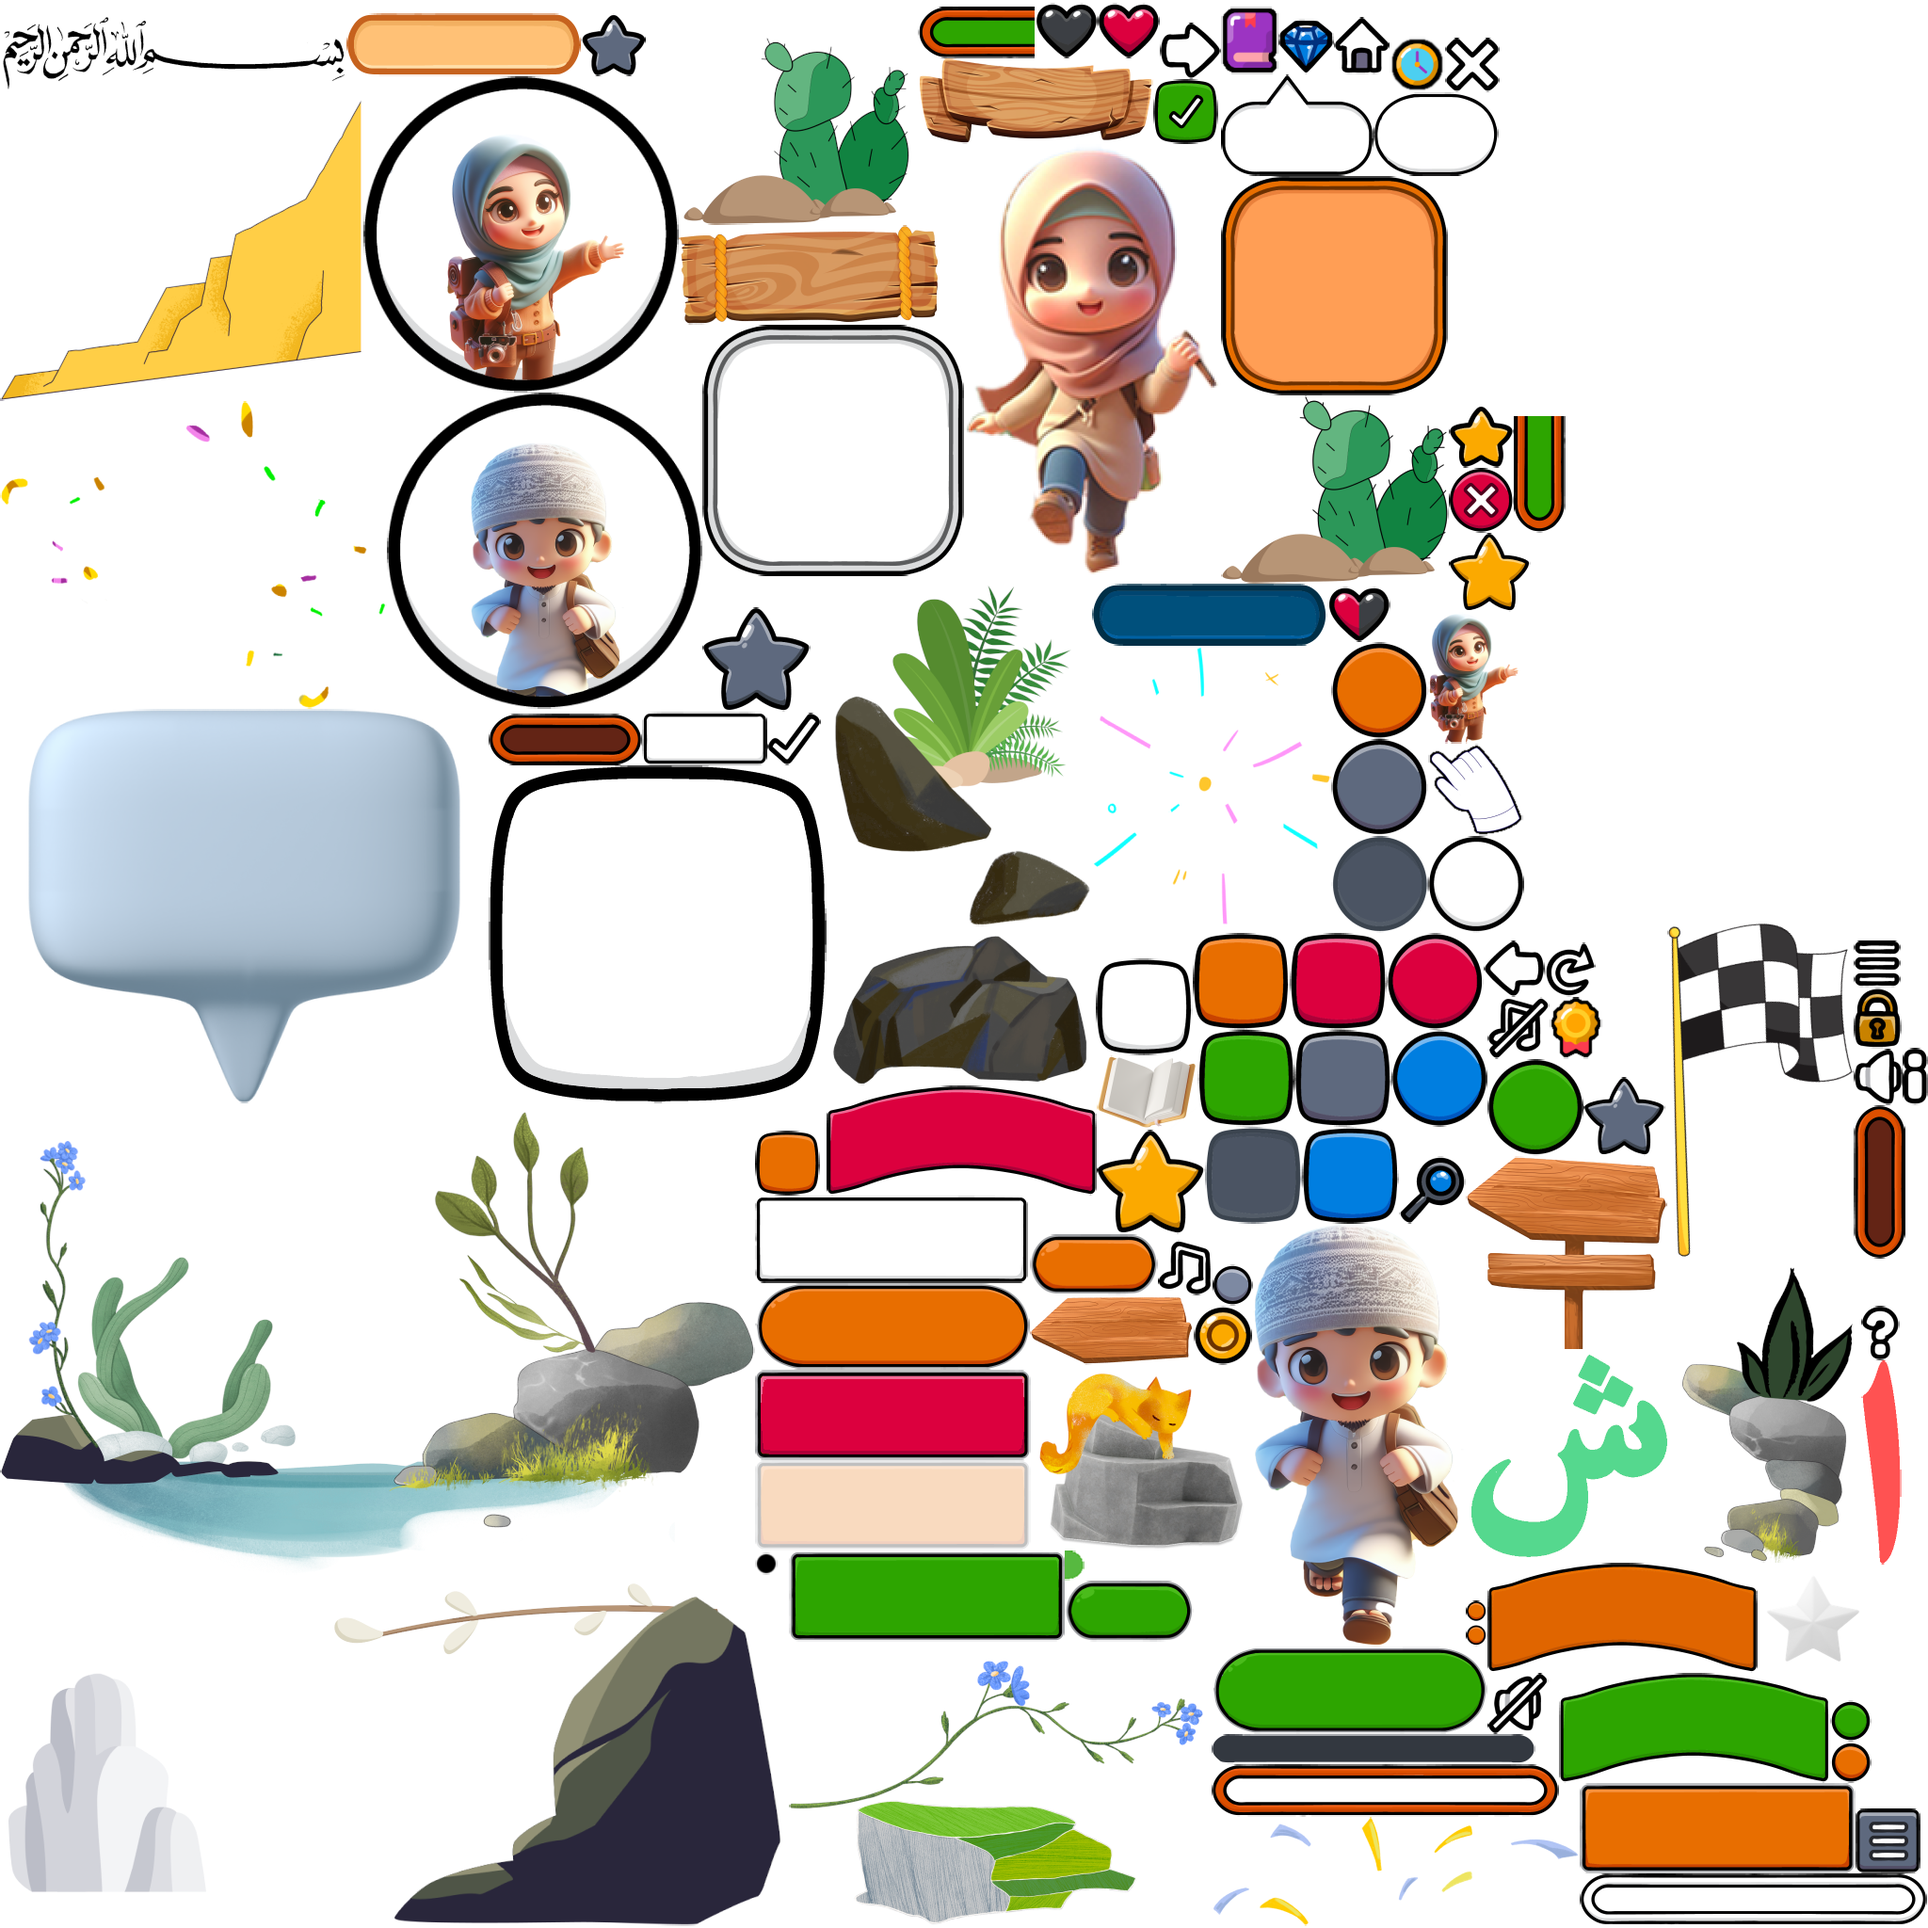
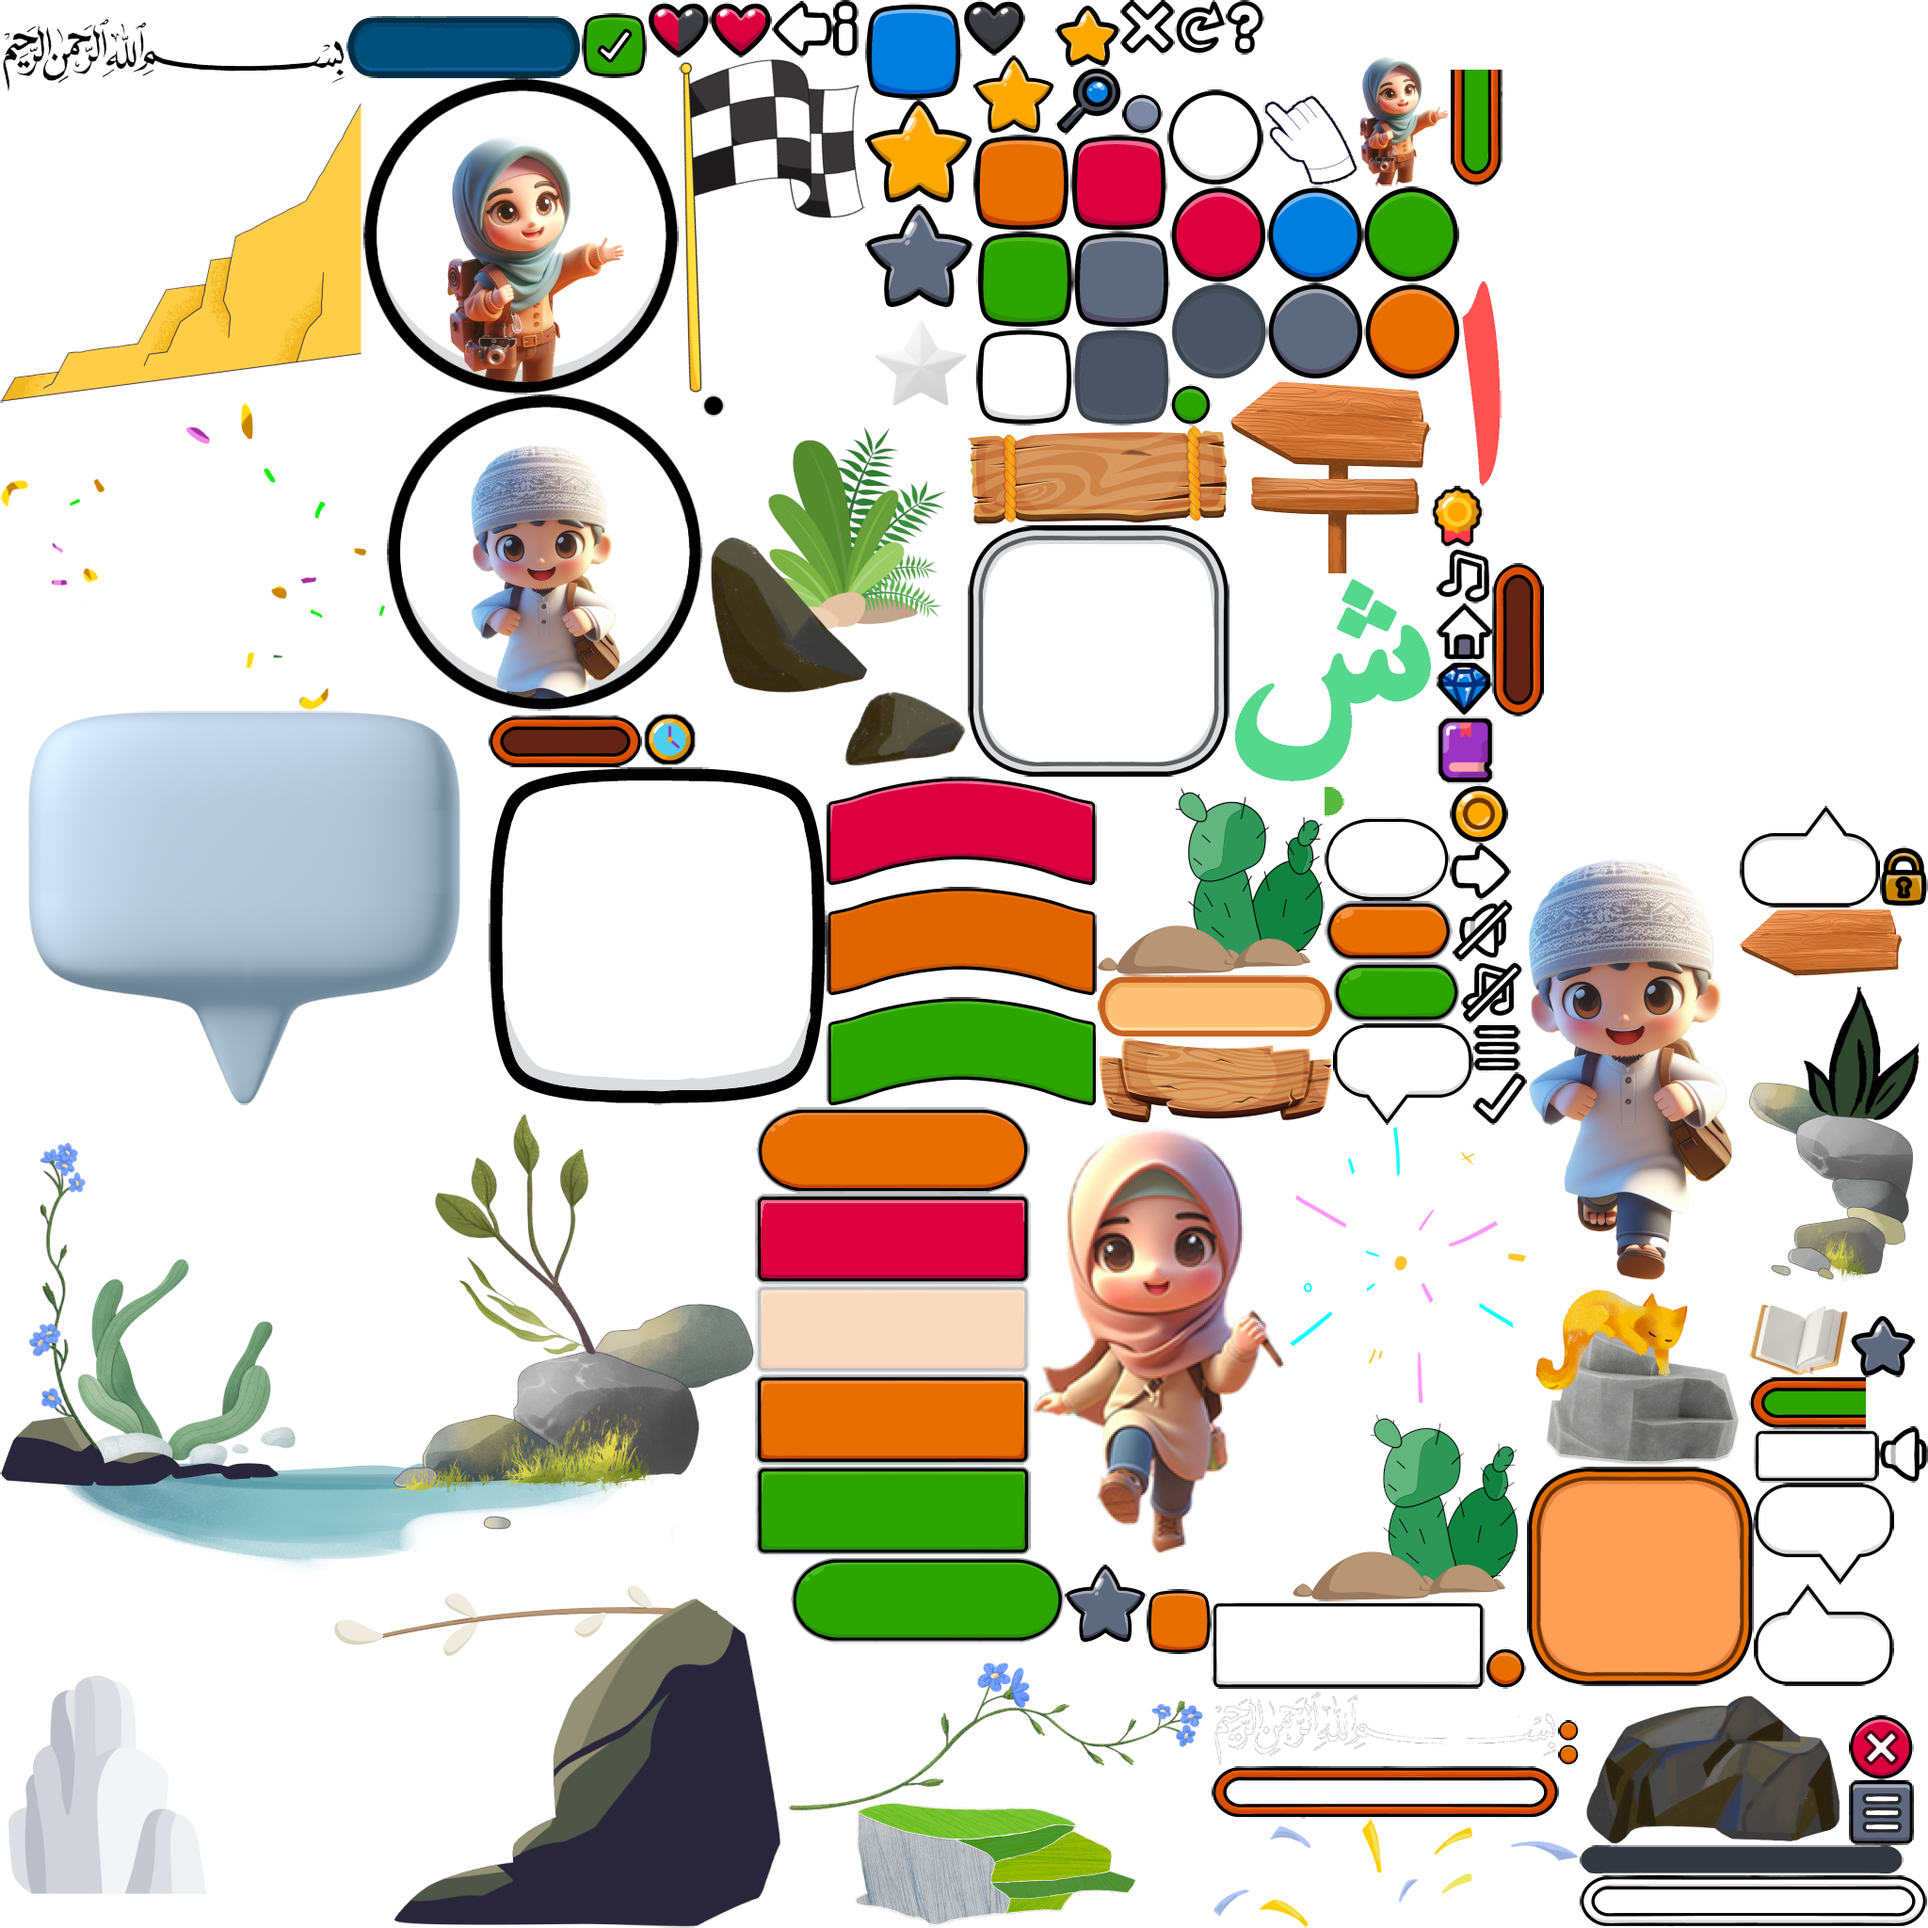
update assets

diff --git a/core/src/main/kotlin/com/github/doandadr/petualanganhijaiyah/asset/skin.kt b/core/src/main/kotlin/com/github/doandadr/petualanganhijaiyah/asset/skin.kt
@@ -47,11 +47,16 @@ enum class ImageButtons(val style: String) {
 }
 
 enum class ImageTextButtons(val style: String) {
-    LEVEL_FINISH_SCORE("level-finish-score"),
     SKIP("skip"),
 }
 
 enum class Labels(val style: String) {
+    ARABIC("arabic"),
+    BANNER_GREEN("banner-green"),
+    BANNER_ORANGE("banner-orange"),
+    BANNER_RED("banner-red"),
+    BOARD("board"),
+    MAP("map"),
     PRIMARY("primary"),
     PRIMARY_BORDER("primary-wb"),
     PRIMARY_GREEN_WHITE_BORDER("primary-gw"),
@@ -60,21 +65,19 @@ enum class Labels(val style: String) {
     SECONDARY("secondary"),
     SECONDARY_BORDER("secondary-wb"),
     SECONDARY_GREEN_WHITE_BORDER("secondary-gw"),
-    ARABIC("arabic"),
-    BOARD("board"),
-    MAP("map"),
     SIGN_NAME("sign-name"),
-    BANNER_GREEN("banner-green"),
-    BANNER_ORANGE("banner-orange"),
-    BANNER_RED("banner-red"),
-    TIMER_COUNTER("timer-counter"),
-    TEXTBOX_ORANGE_ROUNDED("textbox-orange-rounded"),
     TEXTBOX_BLUE_ROUNDED("textbox-blue-rounded"),
-    TEXTBOX_WHITE_SQUARE_LARGE("textbox-white-square-large"),
-    TEXTBOX_ORANGE_SQUARE_LARGE("textbox-orange-square-large"),
     TEXTBOX_GREEN_SQUARE_LARGE("textbox-green-square-large"),
+    TEXTBOX_ORANGE_ROUNDED("textbox-orange-rounded"),
+    TEXTBOX_ORANGE_SQUARE_LARGE("textbox-orange-square-large"),
+    TEXTBOX_WHITE_SQUARE_LARGE("textbox-white-square-large"),
     TEXTBOX_WHITE_SQUARE_SMALL("textbox-white-square-small"),
-    DROP_FRAME("drop-frame"),
+    TIMER_COUNTER("timer-counter"),
+    TUTORIAL("tutorial"),
+    TUTORIAL_LEFT_DOWN("tutorial-left-down"),
+    TUTORIAL_LEFT_UP("tutorial-left-up"),
+    TUTORIAL_RIGHT_DOWN("tutorial-right-down"),
+    TUTORIAL_RIGHT_UP("tutorial-right-up"),
 }
 
 enum class TextButtons(val style: String) {
@@ -92,6 +95,7 @@ enum class TextTooltips(val style: String) {
 
 enum class Drawables(val drawable: String) {
     BISMILLAH("bismillah"),
+    BISMILLAH_WHITE("bismillah-white"),
     BOOK("book"),
     BOX_WHITE_ROUNDED("box-rounded"),
     BOX_ORANGE_ROUNDED("box-orange-rounded"),
@@ -153,5 +157,6 @@ enum class Colors(val color: String) {
     GREEN("RGBA_45_165_0_255"),
     LIGHT_GREEN("RGBA_170_255_136_255"),
     GREY("RGBA_94_105_126_255"),
+    BROWN("RGBA_164_77_0_255"),
 }
 
